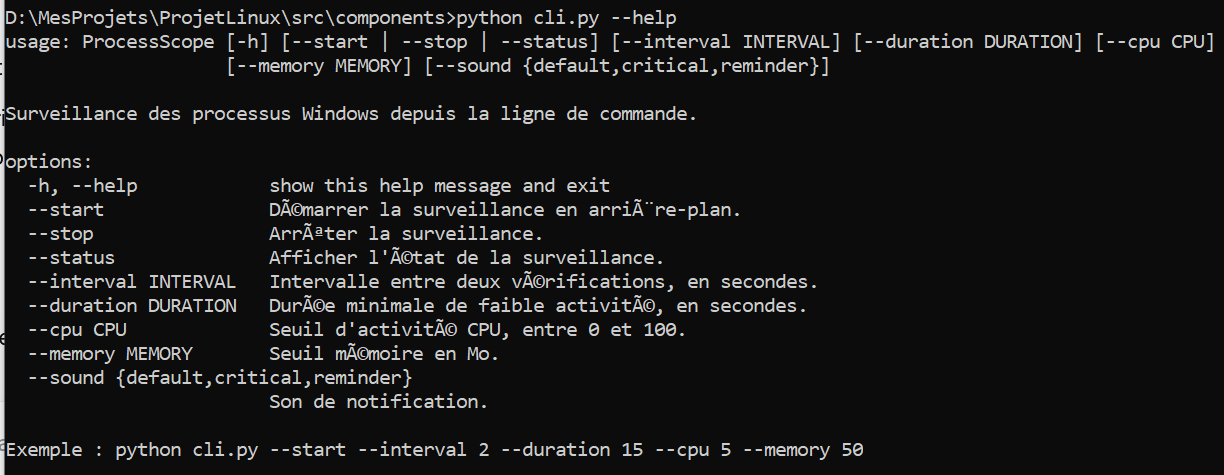
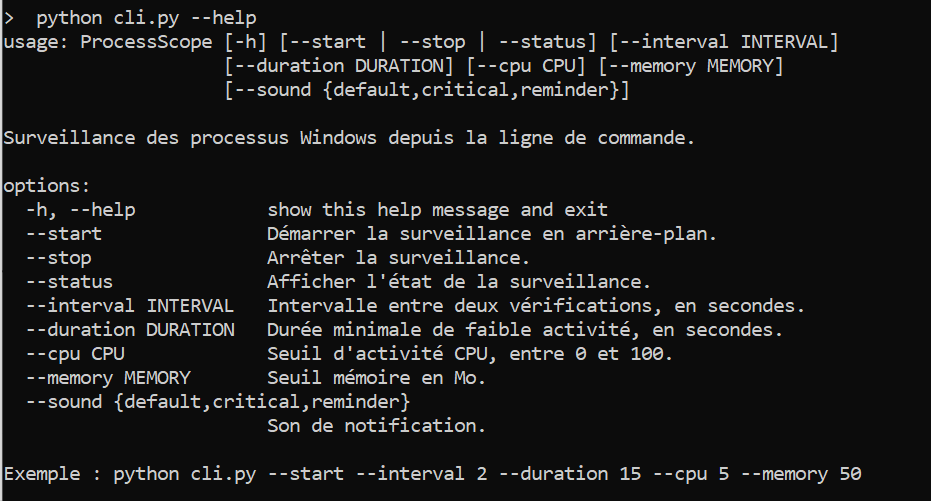
Update CLI notifications documentation and screenshots

Changed region(s): [[0.0, 0.3242, 0.8722, 0.8842], [0.0, 0.0, 0.9968, 0.2947], [0.0, 0.9137, 0.9345, 0.9726]]

diff --git a/README.md b/README.md
@@ -64,7 +64,11 @@ Generate CSV reports containing process information for external inspection and 
 
 ### Command-Line Interface
 
-Control the monitoring service directly from the terminal, independently of the graphical interface.
+ProcessScope can run its monitoring service independently in the background, without requiring the graphical interface to remain open.
+
+When a process meets the configured monitoring conditions, the user receives a **native Windows desktop notification directly on their PC**. These alerts are not limited to terminal messages: they are displayed through the Windows notification system and use the alert sound selected through the monitoring configuration.
+
+The CLI supports three alert sounds: `default`, `critical`, and `reminder`.
 
 <p align="center">
   <img src="assets/images/CLI.png" alt="ProcessScope command-line interface" width="90%">
